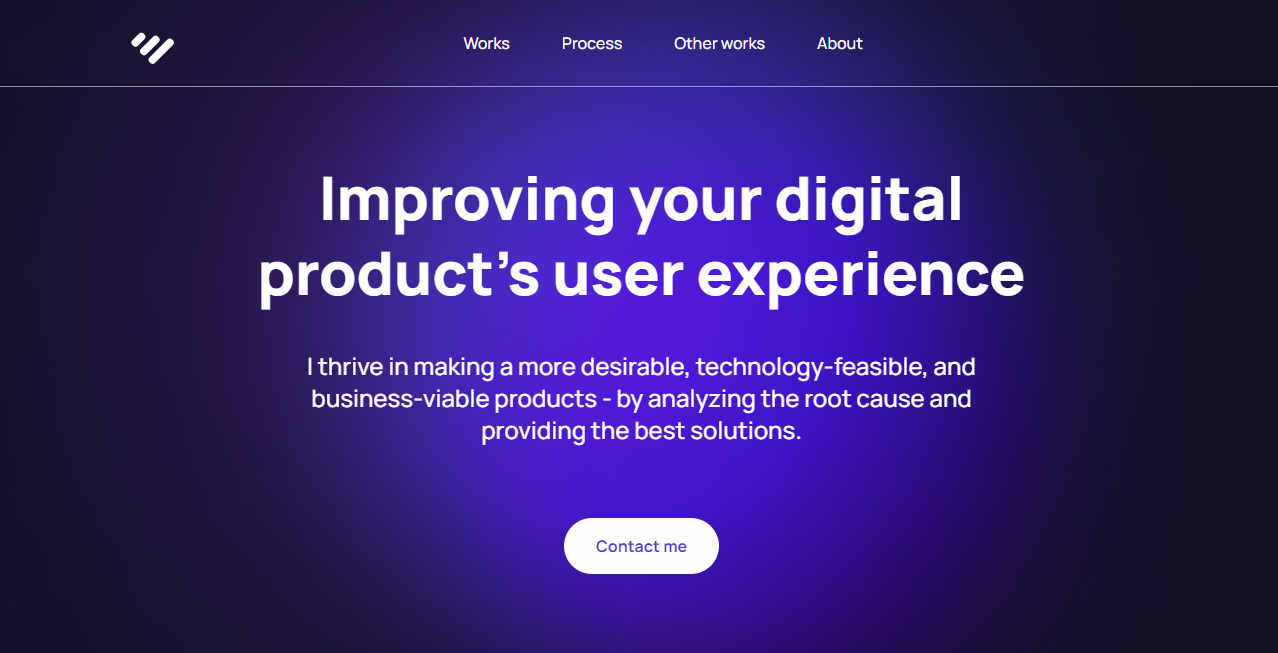
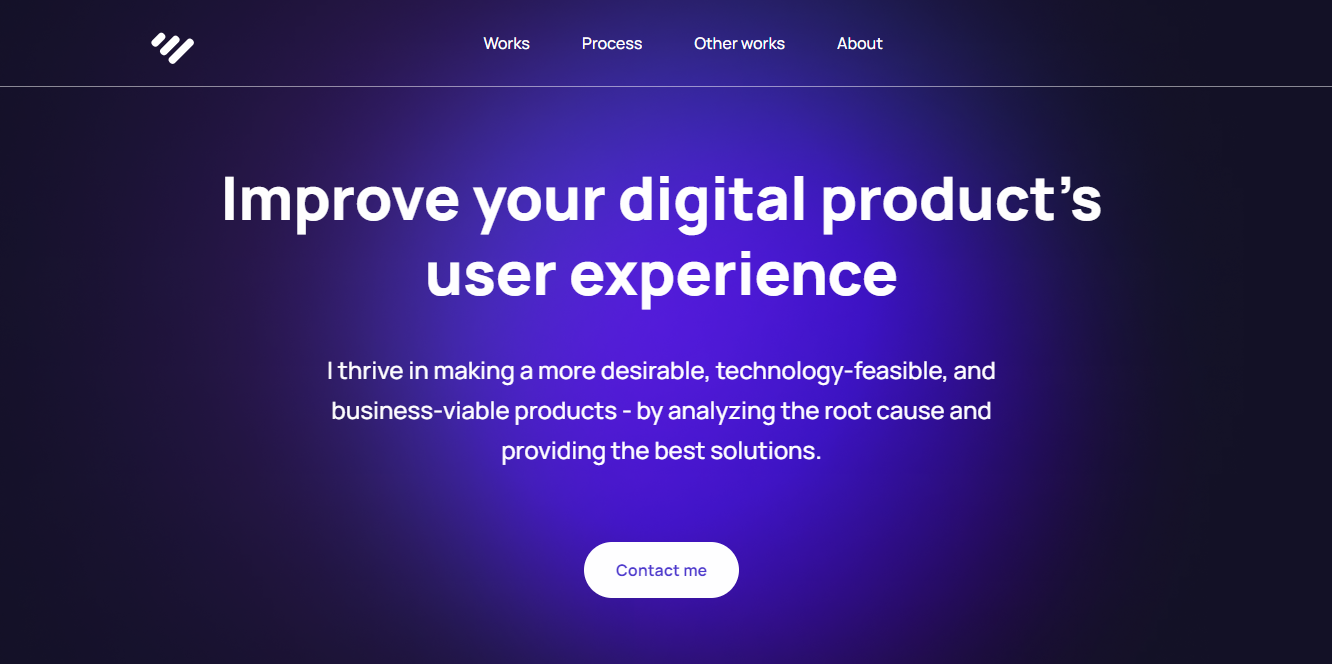
layout fix

diff --git a/src/pages/Home.js b/src/pages/Home.js
@@ -96,10 +96,10 @@ export default function Home() {
               >
                 <div className="w-full mx-auto lg:pb-6 space-y-6 xl:text-center lg:max-w-5xl md:space-y-8 lg:space-y-10 xl:space-y-10 lg:pr-0 pb-0">
                   <div className="break-words font-extrabold leading-tight lg:leading-tight xl:leading-tight text-white text-4xl md:text-4xl lg:text-5xl xl:text-6xl">
-                    Improving your digital product’s user experience
+                    Improve your digital product’s user experience
                   </div>
 
-                  <div className="max-w-2xl mx-auto text-white font-medium text-xl lg:text-2xl leading-9">
+                  <div className="max-w-3xl mx-auto text-white font-medium text-xl lg:text-2xl leading-8 lg:leading-10">
                     I thrive in making a more desirable, technology-feasible,
                     and business-viable products - by analyzing the root cause
                     and providing the best solutions.
